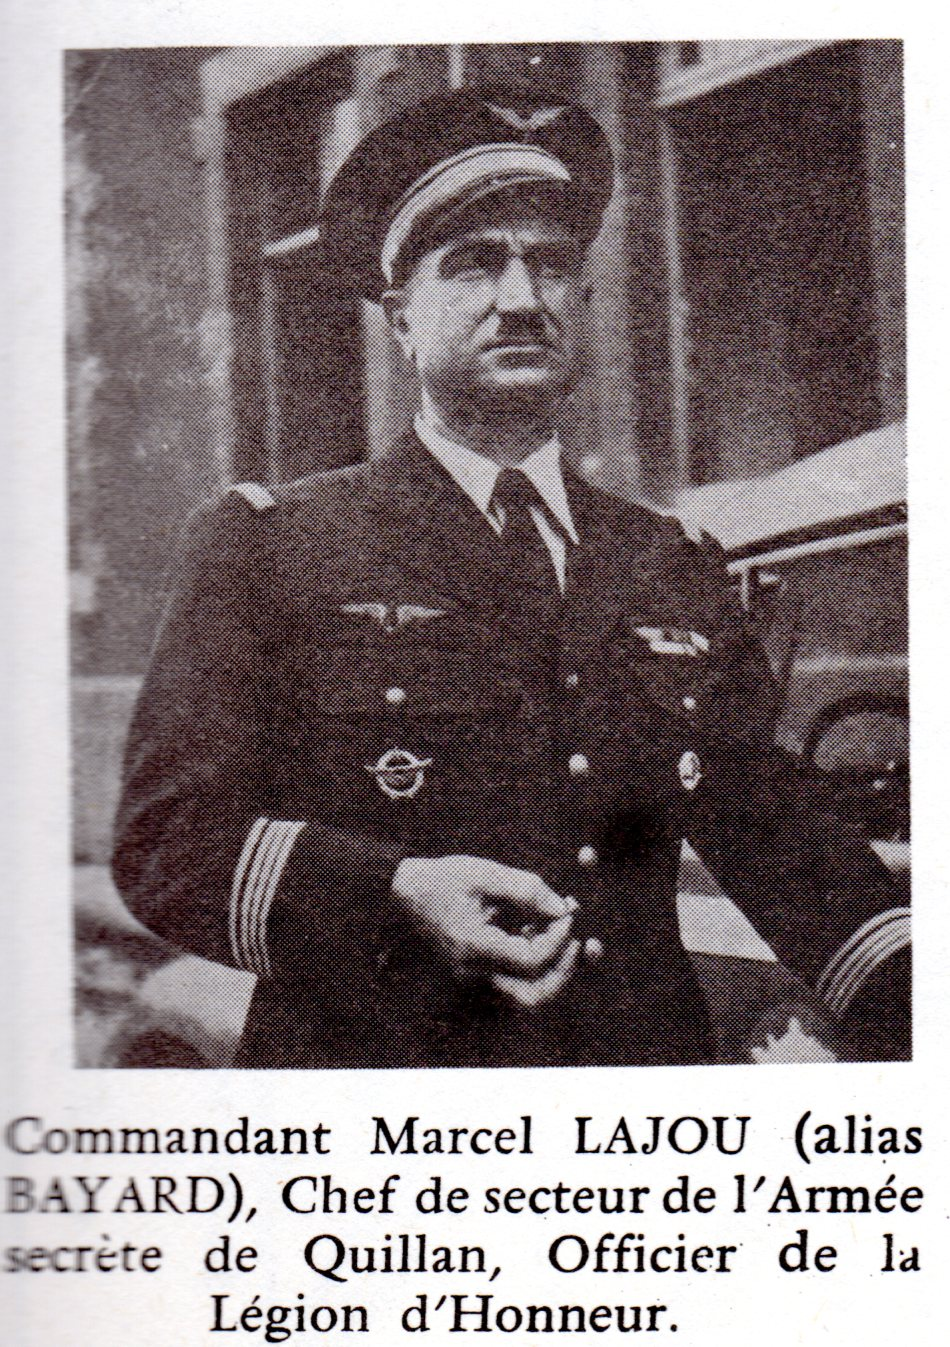
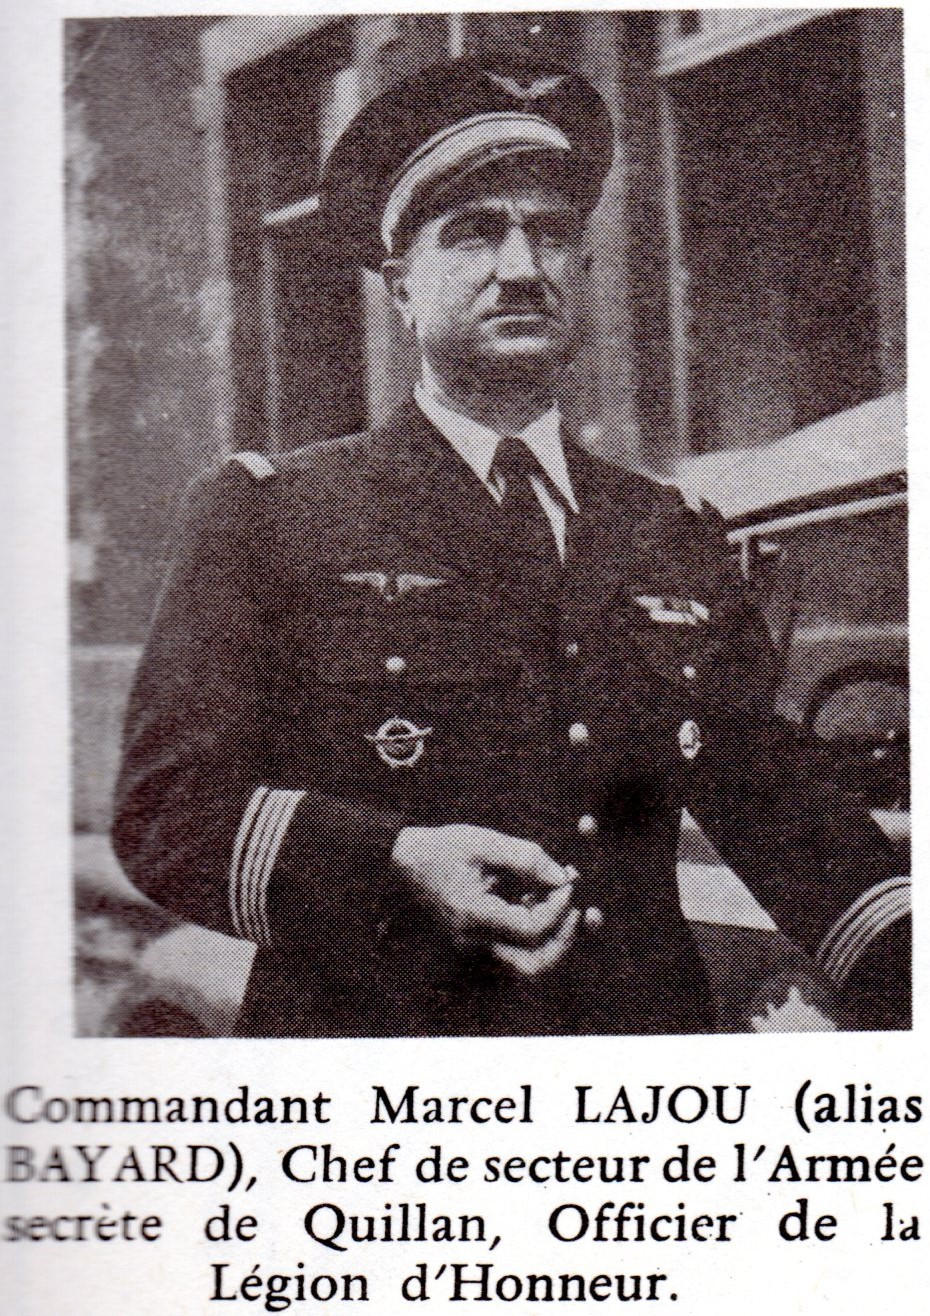
ajout photo bernard lajou

diff --git a/perso-marcel-lajou/marcel-lajou.html b/perso-marcel-lajou/marcel-lajou.html
@@ -12,12 +12,12 @@
   <body>
       <h1>Saint Martin Lys - Personnalité - <br>Marcel Lajou</h1>
       <h2>Résistant, chef de secteur de l'armée secrète à Quillan</h2>
-      <img src="images/Cdt%20Lajou.jpg" alt="Marcel Lajou - photo transmise par Marc Belli" width="423" height="600">
+      <img src="images/Cdt%20Lajou%20photos.jpg" alt="Marcel Lajou - photos transmise par Marc Belli t Bernard Lajou" width="795" height="515">
       <p>Marcel Lajou est né le 21 mai 1902 à Saint-Martin-Lys (voir la photo de son acte de naissance dans les informations complémentaires). Il est le fils de l'instituteur du village. Sa mère Louise <a href="../affaire-municipales/AffairesCommunales-registreA.html?#aff19080830">décède le 27 juin 1908</a>.<br>
       Marcel Lajou est breveté mécanicien d’aéronautique le 25 novembre 1923 et devient pilote en avril 1927. En 1929 un survol de Quillan à basse altitude lui vaudra huit jour d'arrêt pour s'être détourné de son vole. Officier de l’armée de l’air sorti du rang (lieutnant), il effectue des missions en Afrique du Nord. Il devient instructeur à Istres, Bordeaux Mérignac, Salon-de-Provence et Mont-de-Marsan où il forme de nombreux pilotes.<br>
 En 1940, après la défaite, replié en Afrique du Nord, quand il lui sera ordonné d'aller bombarder des bases alliés en Méditéranée, il refusera de voler et se met en congé. Il reviendra à Quillan en 1941.<br>
       En disponibilté de l'armée, Marcel Lajou entre dans la résistance quelque temps après l’arrestation de Raoul de Volontat pour réorganiser le réseau à Quillan. Il prend le pseudonyme de "Bayard", la marque de son stylo... Ses instructions au réseau India 'Quillan) sont transmis par l'intermédiaire de Jean Bourrel. Les équipes reconstituées sont beaucoup mieux cloisonnées, il forme des dizaines de nouveaux partisans dont son fils André Lajou, agent de liaison du maquis de Picausel. Il participe à la libération de la Haute Vallée Quillan, Limoux et Carcassonne, se retrouve à la tête de l’aérodrome de Lézignan, puis prend un temps le commandement du 3e bataillon du 81e RI.</p>
-      (sources : Lucien Maury "le Maquis de Picaussel" - photos transmises par Marc Belli - article de l'<a href="https://www.lindependant.fr/2019/05/09/hommage-a-deux-resistants-de-quillan,8190744.php">indépendant</a>) )
+      (sources : Lucien Maury "le Maquis de Picaussel" - photos transmises par Bernard Lajou et Marc Belli - article de l'<a href="https://www.lindependant.fr/2019/05/09/hommage-a-deux-resistants-de-quillan,8190744.php">indépendant</a>) )
 
       <h2>Informations complémentaires</h2>
       
